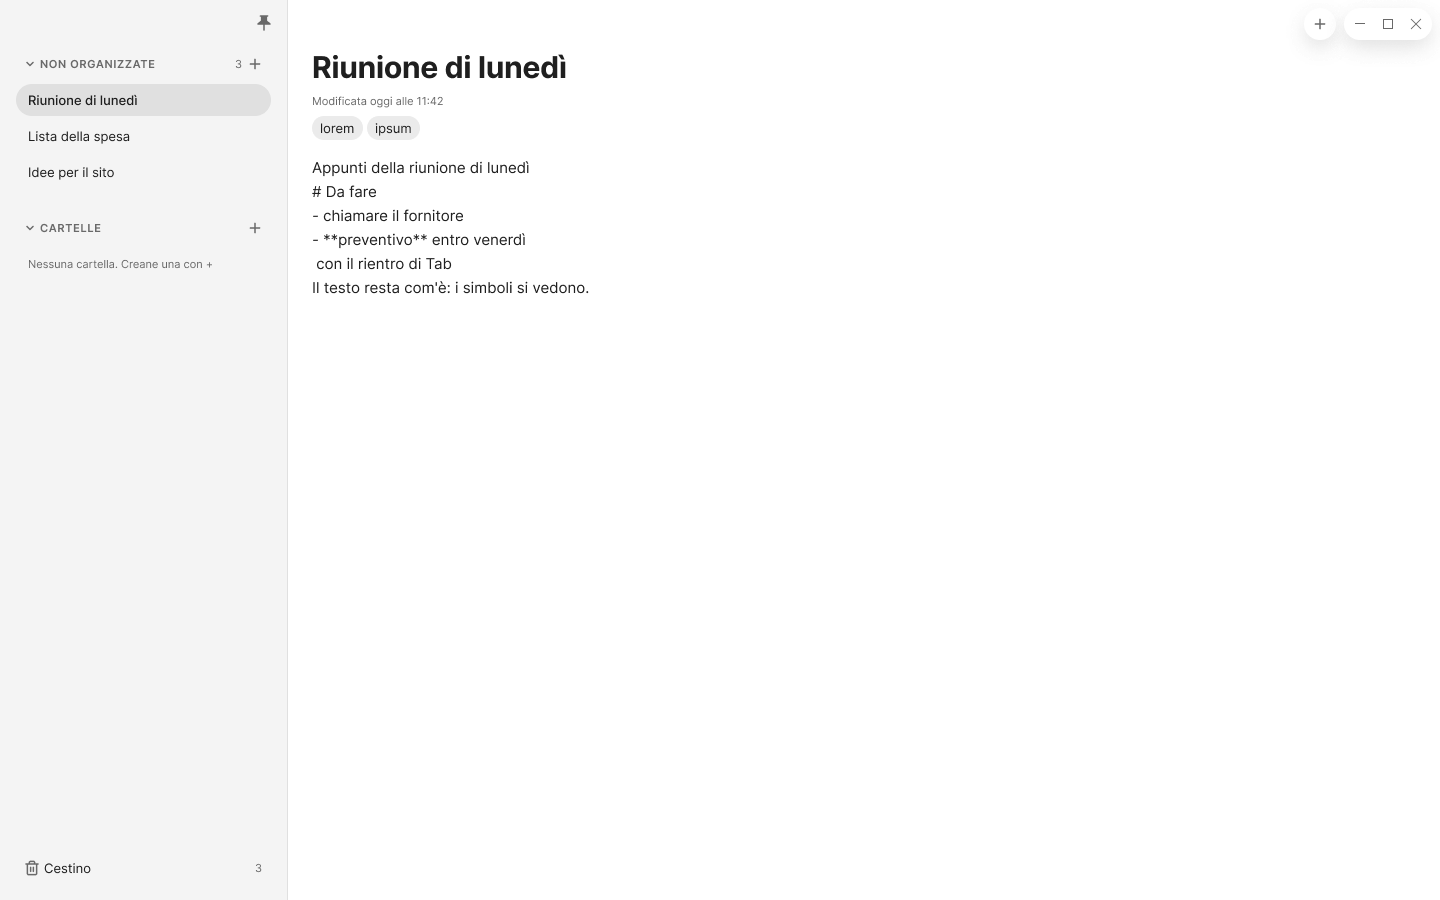
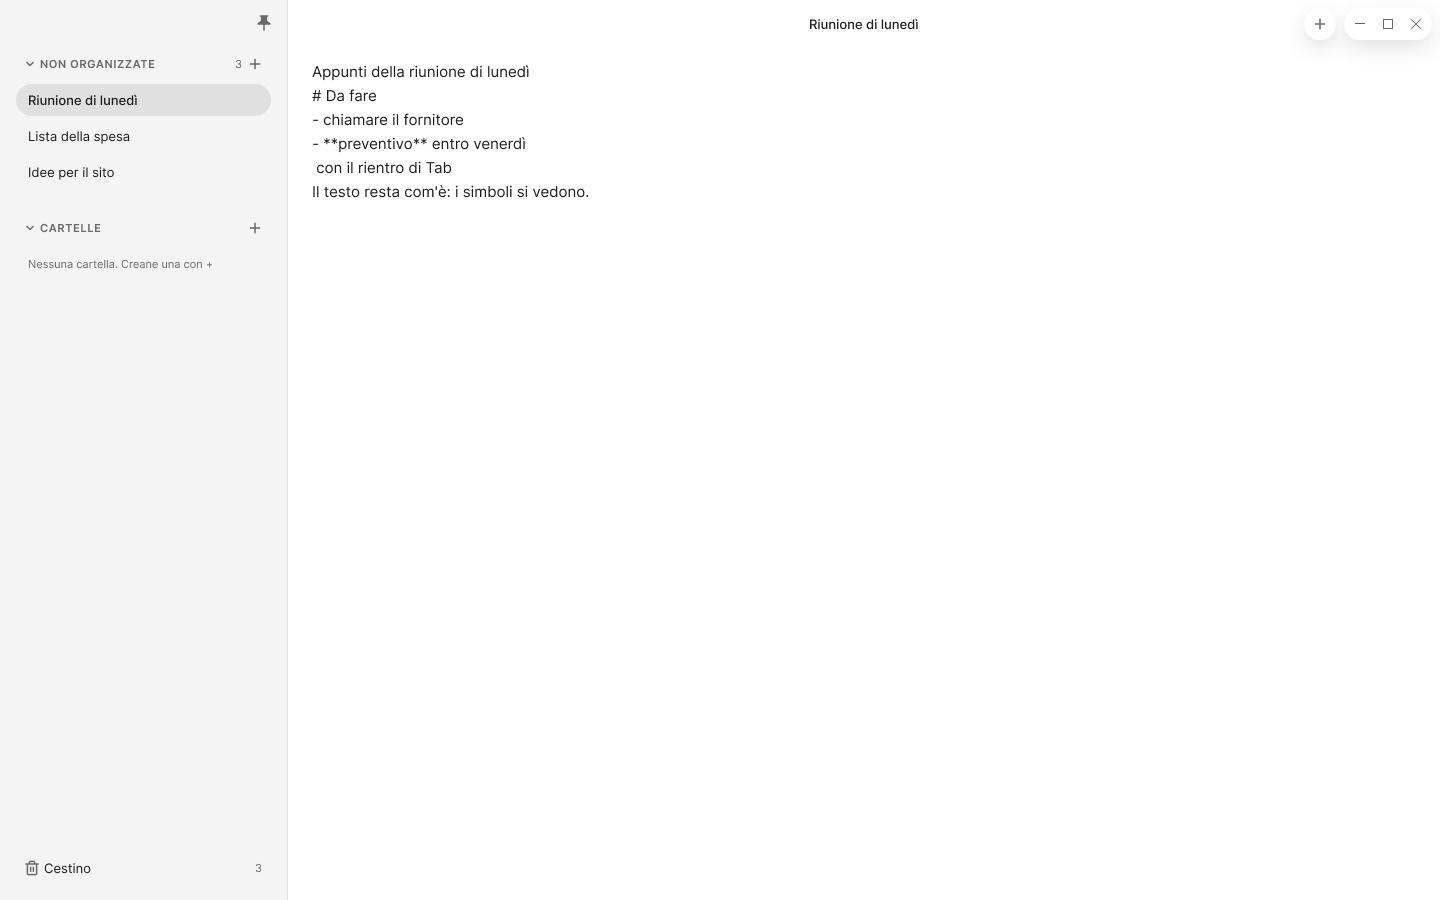
DEC-71 DEC-86 DEC-87 SC-01 CMP-15: mockup di SC-01 alla C4, avviso sotto la fascia, margini uguali nella colonna
- Mockup di SC-01 (Must A e Must B) con il titolo nel percorso e senza metadati nel foglio;
  9 esportazioni rigenerate.
- DEC-86: l'avviso sta 8 sotto la fascia in alto e non copre il percorso (codice e mockup).
- DEC-87: la colonna ha 16 px di margine ai due lati a ogni larghezza; le righe si
  stringono e i titoli finiscono con «…». Supera DEC-62 per il contenuto che non si deforma.

Documenti aggiornati: SC-01, componenti (CMP-15), storico, CHANGELOG.

Changed region(s): [[0.2188, 0.0622, 0.4062, 0.3422], [0.5625, 0.0, 0.625, 0.0311]]

diff --git a/client/src/schermate/FinestraPrincipale.css b/client/src/schermate/FinestraPrincipale.css
@@ -39,13 +39,6 @@
   }
 }
 
-/* Il contenuto della colonna non si deforma (DEC-62): sotto la larghezza normale resta largo
-   come sempre e il bordo lo taglia; sopra, le righe si allargano. */
-
-.colonna > * {
-  min-width: calc(var(--misura-colonna) - 2 * var(--spazio-contenitore));
-}
-
 /* Maniglia sul bordo destro della colonna aperta o fissata: si trascina per cambiarne la
    larghezza, doppio clic la riporta a 288; con il focus, le frecce la spostano di 16 px. */
 .colonna-maniglia {
@@ -108,14 +101,10 @@
   flex-direction: column;
   width: var(--misura-colonna);
   padding-top: var(--spazio-contenitore);
-  /* Stretta: sparisce prima il margine di destra, poi quello di sinistra; il contenuto resta
-     dov'è e il bordo lo taglia, fino a 10 px. */
-  padding-right: clamp(
-    0px,
-    calc(var(--larghezza-colonna) - var(--misura-colonna) + var(--spazio-contenitore)),
-    var(--spazio-contenitore)
-  );
-  padding-left: min(var(--spazio-contenitore), var(--larghezza-colonna));
+  /* Lo stesso margine ai due lati a ogni larghezza: stringendo la colonna si stringono le righe e
+     i titoli finiscono con «…» (DEC-87); sotto i 32 px i margini scendono insieme. */
+  padding-right: min(var(--spazio-contenitore), calc(var(--larghezza-colonna) / 2));
+  padding-left: min(var(--spazio-contenitore), calc(var(--larghezza-colonna) / 2));
   overflow-x: hidden;
   overflow-y: auto;
   border-right: 1px solid var(--bordo-divisore);

diff --git a/client/src/componenti/Avviso.css b/client/src/componenti/Avviso.css
@@ -1,7 +1,8 @@
-/* CMP-15 Avviso: largo 480, raggio 20, margini 16 a sinistra e 8 a destra, 8 sopra e sotto. */
+/* CMP-15 Avviso: largo 480, raggio 20, margini 16 a sinistra e 8 a destra, 8 sopra e sotto.
+   Sta 8 sotto la fascia in alto (a 48 dal bordo), così non copre il percorso (DEC-86). */
 .avviso {
   position: absolute;
-  top: var(--spazio-gruppo);
+  top: calc(2 * var(--spazio-controllo-piccolo) + var(--misura-riga));
   left: 50%;
   z-index: var(--z-avviso);
   display: flex;

diff --git a/client/src/componenti/BarraScorrimento.css b/client/src/componenti/BarraScorrimento.css
@@ -20,12 +20,6 @@
   pointer-events: none;
   transition: opacity var(--movimento-durata-media) ease-out;
 }
-/* Dentro l'area il cursore non prende le misure dei figli (per esempio la larghezza minima
-   delle righe della colonna, DEC-62). */
-.scorrimento-discreto > .barra-scorrimento {
-  min-width: 0;
-  margin: 0;
-}
 .barra-scorrimento-visibile {
   opacity: 0.5;
   pointer-events: auto;

diff --git a/docs/moduli/interfaccia/4-schermate.md b/docs/moduli/interfaccia/4-schermate.md
@@ -13,13 +13,13 @@ Impostazione generale della Fase 4: **desktop-first**. Il pubblico della prima f
 ## SC-01 – Finestra principale
 **Flussi:** FL-01 · FL-02 · FL-05 · FL-06 · FL-09 · **Componenti:** vedi "Inventario dei componenti concettuali"
 
-- **Foglio unico (DEC-55):** niente barra del programma. In alto a destra ··· e i pulsanti della finestra _ [] X (su Windows disegnati da Memodu, su macOS i tre pallini del sistema su una barra trasparente); la finestra si trascina dalla fascia in alto di 32 px, trasparente: il testo le scorre sotto, e ··· con _ [] X stanno in due pillole flottanti separate, 8 px l'una dall'altra, alte 32 con pulsanti tondi da 24, a 8 px dal bordo in alto e da destra (DEC-60, DEC-62, DEC-63), che per ora compare solo con il mouse entro 48 px dal bordo in alto ed entro 240 px dal bordo destro, così non compare insieme a «| →», oppure con il menu ··· aperto o con il focus (DEC-61, provvisorio; zona a destra proposta dall'agente). La colonna ha tre stati: **chiusa** (non si vede; con il mouse entro 48 px dal bordo sinistro, o con il focus, compare «| →» in alto a sinistra), **aperta** (sopra il foglio, con `ombra-flottante`; «← |» o un clic sul foglio la richiudono, scegliere una nota non la chiude, DEC-56) e **fissata** (con la puntina: resta aperta e il foglio si sposta a destra; Memodu lo ricorda). Aperta o fissata, si allarga o si stringe trascinando il bordo destro, da 10 px fino a lasciare 48 px al foglio; sotto i 288 px il contenuto non si deforma e il bordo lo taglia; doppio clic per tornare a 288 (DEC-62). Disegni: [Proposta · Foglio unico](https://www.figma.com/design/18288YdcRf5vtWCtEefQYJ?node-id=70-1636).
+- **Foglio unico (DEC-55):** niente barra del programma. In alto a destra ··· e i pulsanti della finestra _ [] X (su Windows disegnati da Memodu, su macOS i tre pallini del sistema su una barra trasparente); la finestra si trascina dalla fascia in alto di 32 px, trasparente: il testo le scorre sotto, e ··· con _ [] X stanno in due pillole flottanti separate, 8 px l'una dall'altra, alte 32 con pulsanti tondi da 24, a 8 px dal bordo in alto e da destra (DEC-60, DEC-62, DEC-63), che per ora compare solo con il mouse entro 48 px dal bordo in alto ed entro 240 px dal bordo destro, così non compare insieme a «| →», oppure con il menu ··· aperto o con il focus (DEC-61, provvisorio; zona a destra proposta dall'agente). La colonna ha tre stati: **chiusa** (non si vede; con il mouse entro 48 px dal bordo sinistro, o con il focus, compare «| →» in alto a sinistra), **aperta** (sopra il foglio, con `ombra-flottante`; «← |» o un clic sul foglio la richiudono, scegliere una nota non la chiude, DEC-56) e **fissata** (con la puntina: resta aperta e il foglio si sposta a destra; Memodu lo ricorda). Aperta o fissata, si allarga o si stringe trascinando il bordo destro, da 10 px fino a lasciare 48 px al foglio; il margine resta 16 ai due lati e sono le righe a stringersi, con i titoli che finiscono con «…» (DEC-87); doppio clic per tornare a 288 (DEC-62). Disegni: [Proposta · Foglio unico](https://www.figma.com/design/18288YdcRf5vtWCtEefQYJ?node-id=70-1636).
 
 - **Wireframe:** [stato pieno](https://www.figma.com/design/ioeRDMTxu3TEMoLN8rinAK/Memodu--Wireframe--Fase-4-?node-id=7-2) · [stato vuoto](https://www.figma.com/design/ioeRDMTxu3TEMoLN8rinAK/Memodu--Wireframe--Fase-4-?node-id=7-56) · [risultati di ricerca](https://www.figma.com/design/ioeRDMTxu3TEMoLN8rinAK/Memodu--Wireframe--Fase-4-?node-id=14-2) · [finestra di conferma e avviso](https://www.figma.com/design/ioeRDMTxu3TEMoLN8rinAK/Memodu--Wireframe--Fase-4-?node-id=14-91) · [non organizzate chiuse](https://www.figma.com/design/ioeRDMTxu3TEMoLN8rinAK/Memodu--Wireframe--Fase-4-?node-id=21-2) · [menu della nota aperto](https://www.figma.com/design/ioeRDMTxu3TEMoLN8rinAK/Memodu--Wireframe--Fase-4-?node-id=22-3) · [tasto destro su una cartella](https://www.figma.com/design/ioeRDMTxu3TEMoLN8rinAK/Memodu--Wireframe--Fase-4-?node-id=30-186)
 - **Esportazioni:** `immagini/SC-01.png`, `immagini/SC-01-vuoto.png`, `immagini/SC-01-ricerca.png`, `immagini/SC-01-conferma.png`, `immagini/SC-01-sezione-chiusa.png`, `immagini/SC-01-menu.png`, `immagini/SC-01-tasto-destro-cartella.png`
 - **Mockup:** [stato normale](https://www.figma.com/design/18288YdcRf5vtWCtEefQYJ?node-id=5-718) (in revisione)
 - **Mockup della versione ridotta (frammento Must A, approvati da Manuel Cucca il 27/09/2026):** [con note](https://www.figma.com/design/18288YdcRf5vtWCtEefQYJ?node-id=17-214) · [vuota, primo utilizzo](https://www.figma.com/design/18288YdcRf5vtWCtEefQYJ?node-id=17-425); esportazioni `immagini/SC-01-ridotta-mockup.png`, `immagini/SC-01-ridotta-vuota-mockup.png`. Nella nota aperta niente menu `···` e niente riga dei metadati (tag e data di modifica): torna con RF-04
-- **Mockup della versione per il frammento Must B «Smistare» (approvati da Manuel Cucca il 28/09/2026):** [con cartelle](https://www.figma.com/design/18288YdcRf5vtWCtEefQYJ?node-id=43-310) · [trascinamento](https://www.figma.com/design/18288YdcRf5vtWCtEefQYJ?node-id=44-1950) · [nuova cartella](https://www.figma.com/design/18288YdcRf5vtWCtEefQYJ?node-id=44-2027) · [nome già esistente](https://www.figma.com/design/18288YdcRf5vtWCtEefQYJ?node-id=44-2104) · [albero vuoto](https://www.figma.com/design/18288YdcRf5vtWCtEefQYJ?node-id=44-2942) · [errore](https://www.figma.com/design/18288YdcRf5vtWCtEefQYJ?node-id=44-3074) · [menu della nota](https://www.figma.com/design/18288YdcRf5vtWCtEefQYJ?node-id=44-3092) · [Sposta in](https://www.figma.com/design/18288YdcRf5vtWCtEefQYJ?node-id=44-3214); esportazioni `immagini/SC-01-smistare-*-mockup.png`.
+- **Mockup della versione per il frammento Must B «Smistare» (approvati da Manuel Cucca il 28/09/2026):** [con cartelle](https://www.figma.com/design/18288YdcRf5vtWCtEefQYJ?node-id=43-310) · [trascinamento](https://www.figma.com/design/18288YdcRf5vtWCtEefQYJ?node-id=44-1950) · [nuova cartella](https://www.figma.com/design/18288YdcRf5vtWCtEefQYJ?node-id=44-2027) · [nome già esistente](https://www.figma.com/design/18288YdcRf5vtWCtEefQYJ?node-id=44-2104) · [albero vuoto](https://www.figma.com/design/18288YdcRf5vtWCtEefQYJ?node-id=44-2942) · [errore](https://www.figma.com/design/18288YdcRf5vtWCtEefQYJ?node-id=44-3074) · [menu della nota](https://www.figma.com/design/18288YdcRf5vtWCtEefQYJ?node-id=44-3092) · [Sposta in](https://www.figma.com/design/18288YdcRf5vtWCtEefQYJ?node-id=44-3214); esportazioni `immagini/SC-01-smistare-*-mockup.png`. Il 30/09/2026 questi mockup e quelli di Must A sono stati aggiornati con il titolo nel percorso e senza metadati nel foglio (DEC-71), l'avviso 8 sotto la fascia (DEC-86), ed esportati di nuovo.
 - **Versione per il frammento Must B:** la colonna ha le sezioni Non organizzate e Cartelle, con l'albero (CMP-14); niente ricerca. La nota aperta non ha la riga dei tag e delle date. Il menu `···` in alto a destra ha solo «Sposta in…», «Elimina» e «Cestino» (DEC-36).
 - **Versione ridotta per il frammento Must A:** la colonna sinistra ha solo la sezione Non organizzate con il suo + (FL-09); niente ricerca e niente sezione Cartelle. Le cartelle si aggiungeranno sotto con il frammento Must. Finché non ci sono le cartelle la sezione si intitola "Note" (diventerà "Non organizzate"); il + ha il suggerimento "Nuova nota"; con l'elenco vuoto compare "Le note che scrivi compaiono qui."
 

diff --git a/CHANGELOG.md b/CHANGELOG.md
@@ -8,6 +8,7 @@ Queste note sono scritte per gli utenti. Lo storico interno della documentazione
 ## [Non rilasciato]
 
 ### Cambiato
+- Gli avvisi compaiono appena sotto la fascia in alto, così non coprono il titolo della nota (RF-02)
 - Il titolo della nota è in alto, al centro, insieme alle cartelle che la contengono: si modifica cliccandolo, e una cartella del percorso si apre nella colonna. Ultima modifica e tag compaiono passando con il mouse sul titolo (RF-02, RF-04, RF-05)
 - Memodu tiene le note sul computer e funziona anche senza il server delle note; alla prima apertura ritrova le note scritte finora
 - Nuova icona dell'app
@@ -39,6 +40,7 @@ Queste note sono scritte per gli utenti. Lo storico interno della documentazione
 - 
 
 ### Corretto
+- La colonna ha lo stesso margine a sinistra e a destra anche quando la stringi (RF-05)
 - Nella colonna non compaiono più due barre di scorrimento, e la barra si muove con la colonna quando si apre o si chiude (RF-05)
 - Sotto la riga Cestino in fondo alla colonna non si intravedono più le note che scorrono (RF-15)
 - La finestra Dettagli si chiude anche cliccando fuori (RF-04)

diff --git a/docs/registri/decisioni/DEC-87-margini-uguali-nella-colonna.md b/docs/registri/decisioni/DEC-87-margini-uguali-nella-colonna.md
@@ -1,0 +1,17 @@
+# DEC-87 – Margini uguali ai due lati della colonna
+
+**Data:** 2026-09-30 · **Stato:** Accettata · **Idea di origine:** —
+
+## Contesto
+Con DEC-62 la colonna si stringe trascinando il bordo; sotto i 288 px il contenuto non si deformava: restava largo come sempre e il bordo lo tagliava, togliendo prima il margine di destra e poi quello di sinistra. Manuel Cucca ha notato che la colonna non ha lo stesso margine ai due lati: a 278 px erano 16 a sinistra e 6 a destra.
+
+## Opzioni valutate
+A) Lo stesso margine ai due lati a ogni larghezza: sono le righe a stringersi.
+B) Come DEC-62.
+
+## Decisione
+Scelta di Manuel Cucca: **A**. La colonna ha 16 (`spazio-contenitore`) a sinistra e a destra a qualsiasi larghezza; stringendola si stringono le righe, i titoli lunghi finiscono con «…» e i numeri restano allineati a destra. Sotto i 32 px i due margini scendono insieme.
+
+## Conseguenze
+- Supera DEC-62 per il contenuto che non si deforma; il resto di DEC-62 (colonna ridimensionabile, pillola) resta valido.
+- SC-01 in `interfaccia/4-schermate.md`; codice di `FinestraPrincipale.css`.

diff --git a/docs/design-system/componenti.md b/docs/design-system/componenti.md
@@ -592,7 +592,7 @@ Scegliere un giorno scrive la data nel campo, salva (RB-06) e chiude il calendar
 
 ### Varianti e dimensioni
 - **Errore**, **Avviso**, **Informazione**, **Successo** (DEC-14): fondo `sfondo-<stato>`, icona Lucide 16 in `icona-<stato>` (`circle-alert`, `triangle-alert`, `info`, `check`), testo Interfaccia/Messaggio in `testo-primario`, a destra «Ho capito» (pulsante tenue) e, con la proprietà **Mostra azione**, un'azione tenue prima di lui (es. «Ripristina», «Apri l'altra»).
-- Largo 480, raggio 20, margini 16 a sinistra e 8 a destra, 8 sopra e sotto, `ombra-flottante`, livello 50, uno alla volta, in cima all'area della nota. Il testo va a capo.
+- Largo 480, raggio 20, margini 16 a sinistra e 8 a destra, 8 sopra e sotto, `ombra-flottante`, livello 50, uno alla volta, al centro dell'area della nota, 8 sotto la fascia in alto (a 48 dal bordo): non copre il percorso (CMP-26, DEC-86). Il testo va a capo.
 - I testi sono esempi nel tono di voce; quelli definitivi si scrivono in Fase 6.
 
 ### Stati

diff --git a/docs/registri/decisioni/DEC-62-colonna-ridimensionabile-e-pillola.md b/docs/registri/decisioni/DEC-62-colonna-ridimensionabile-e-pillola.md
@@ -1,6 +1,6 @@
 # DEC-62 – Colonna ridimensionabile e tasti in una pillola
 
-**Data:** 2026-09-29 · **Stato:** Superata da DEC-63 (solo la pillola unica di ··· e dei pulsanti della finestra) · **Idea di origine:** —
+**Data:** 2026-09-29 · **Stato:** Superata da DEC-63 (solo la pillola unica di ··· e dei pulsanti della finestra) e da DEC-87 (solo il contenuto che non si deforma) · **Idea di origine:** —
 
 ## Contesto
 La colonna (DEC-55) aveva la larghezza fissa di 288 px; i tasti in alto a destra stavano in un rettangolo arrotondato con i pulsanti quadrati (DEC-60, eccezione a CMP-01 di DEC-55). Manuel Cucca: «voglio poter ridimensionare la sidebar quando è aperta; il suo contenuto non deve cambiare, deve rimanere inflessibile sotto una certa larghezza utile; posso ridimensionarla fino a 10 px e anche di più del normale». E: «i tasti a destra sono poco pillolosi, solo un rettangolo molto arrotondato: deve essere allineato a tutto lo stile».

diff --git a/docs/registri/storico.md b/docs/registri/storico.md
@@ -348,3 +348,5 @@
 | 30/09/2026 | Manuel Cucca | RB-57, FL-08, CA-14.3, CA-14.6: senza il file delle credenziali si lavora in locale; il blocco resta per le credenziali rifiutate | DEC-84 |
 | 30/09/2026 | Manuel Cucca | Codice della sincronizzazione (RF-10, RF-14): richieste in `api.md`, credenziali generate dall'API, ambienti | DEC-75 … DEC-84 |
 | 30/09/2026 | Manuel Cucca | L'API è solo il deposito della sincronizzazione: tolti il vecchio archivio delle note e le sue richieste; api.md resta il contratto dei comandi del client; set di dati «Smistare» da rifare | DEC-85 |
+| 30/09/2026 | Manuel Cucca | Mockup di SC-01 con il percorso e senza titolo e metadati nel foglio; CMP-15: l'avviso sta 8 sotto la fascia in alto | DEC-71, DEC-86 |
+| 30/09/2026 | Manuel Cucca | SC-01: la colonna ha lo stesso margine ai due lati a ogni larghezza | DEC-87 |

diff --git a/docs/registri/decisioni/DEC-86-avviso-sotto-la-fascia.md b/docs/registri/decisioni/DEC-86-avviso-sotto-la-fascia.md
@@ -1,0 +1,17 @@
+# DEC-86 – L'avviso sta sotto la fascia in alto
+
+**Data:** 2026-09-30 · **Stato:** Accettata · **Idea di origine:** —
+
+## Contesto
+L'avviso (CMP-15) compariva in cima all'area della nota, al centro, a 24 dal bordo. Con DEC-71 al centro della fascia in alto c'è il percorso con il titolo (CMP-26): aggiornando i mockup di SC-01 è emerso che l'avviso lo copre.
+
+## Opzioni valutate
+A) Stessa posizione al centro, ma 8 sotto la fascia in alto (a 48 dal bordo).
+B) In basso al centro.
+C) Sopra il percorso, come prima.
+
+## Decisione
+Scelta di Manuel Cucca: **A**. L'avviso sta al centro, 8 sotto la fascia in alto: il percorso resta visibile e l'avviso copre le prime righe del testo finché non si chiude.
+
+## Conseguenze
+- CMP-15 in `componenti.md`; codice di `Avviso.css`; mockup con un avviso aggiornati.
